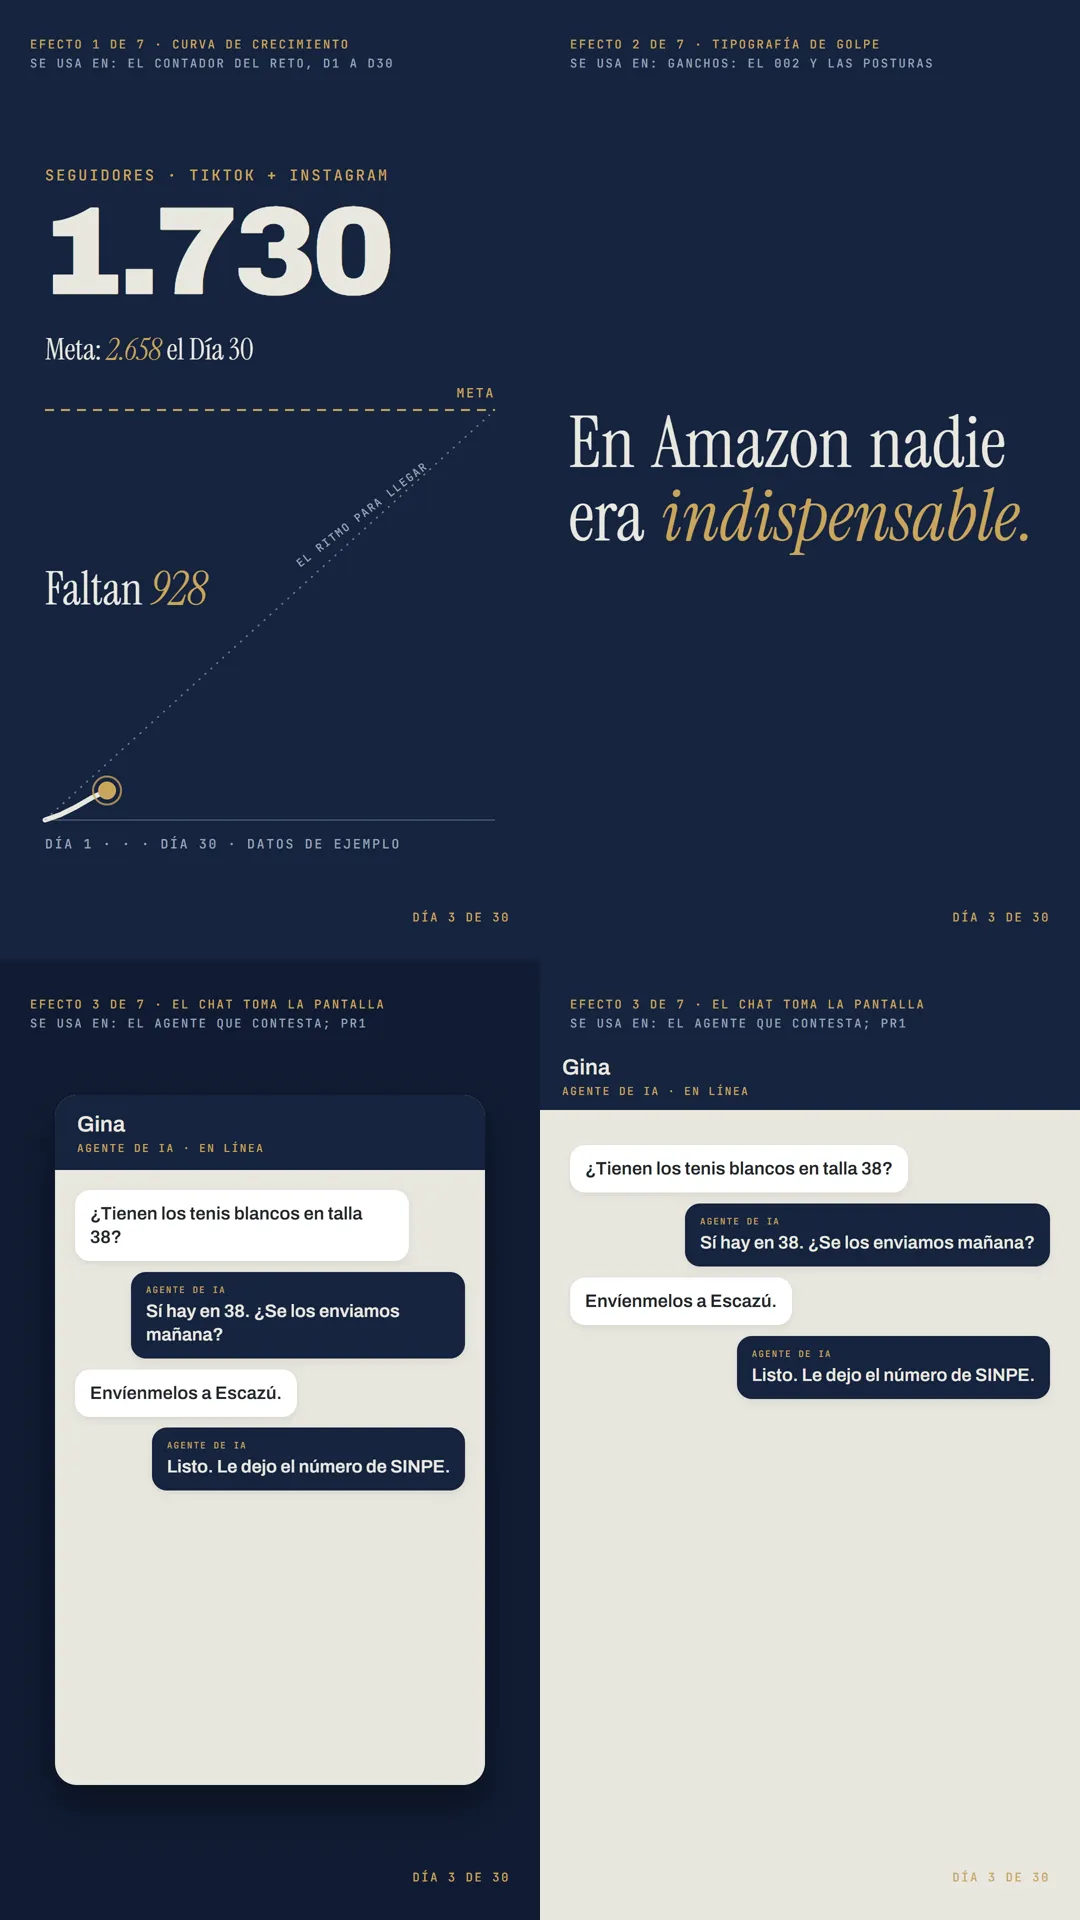
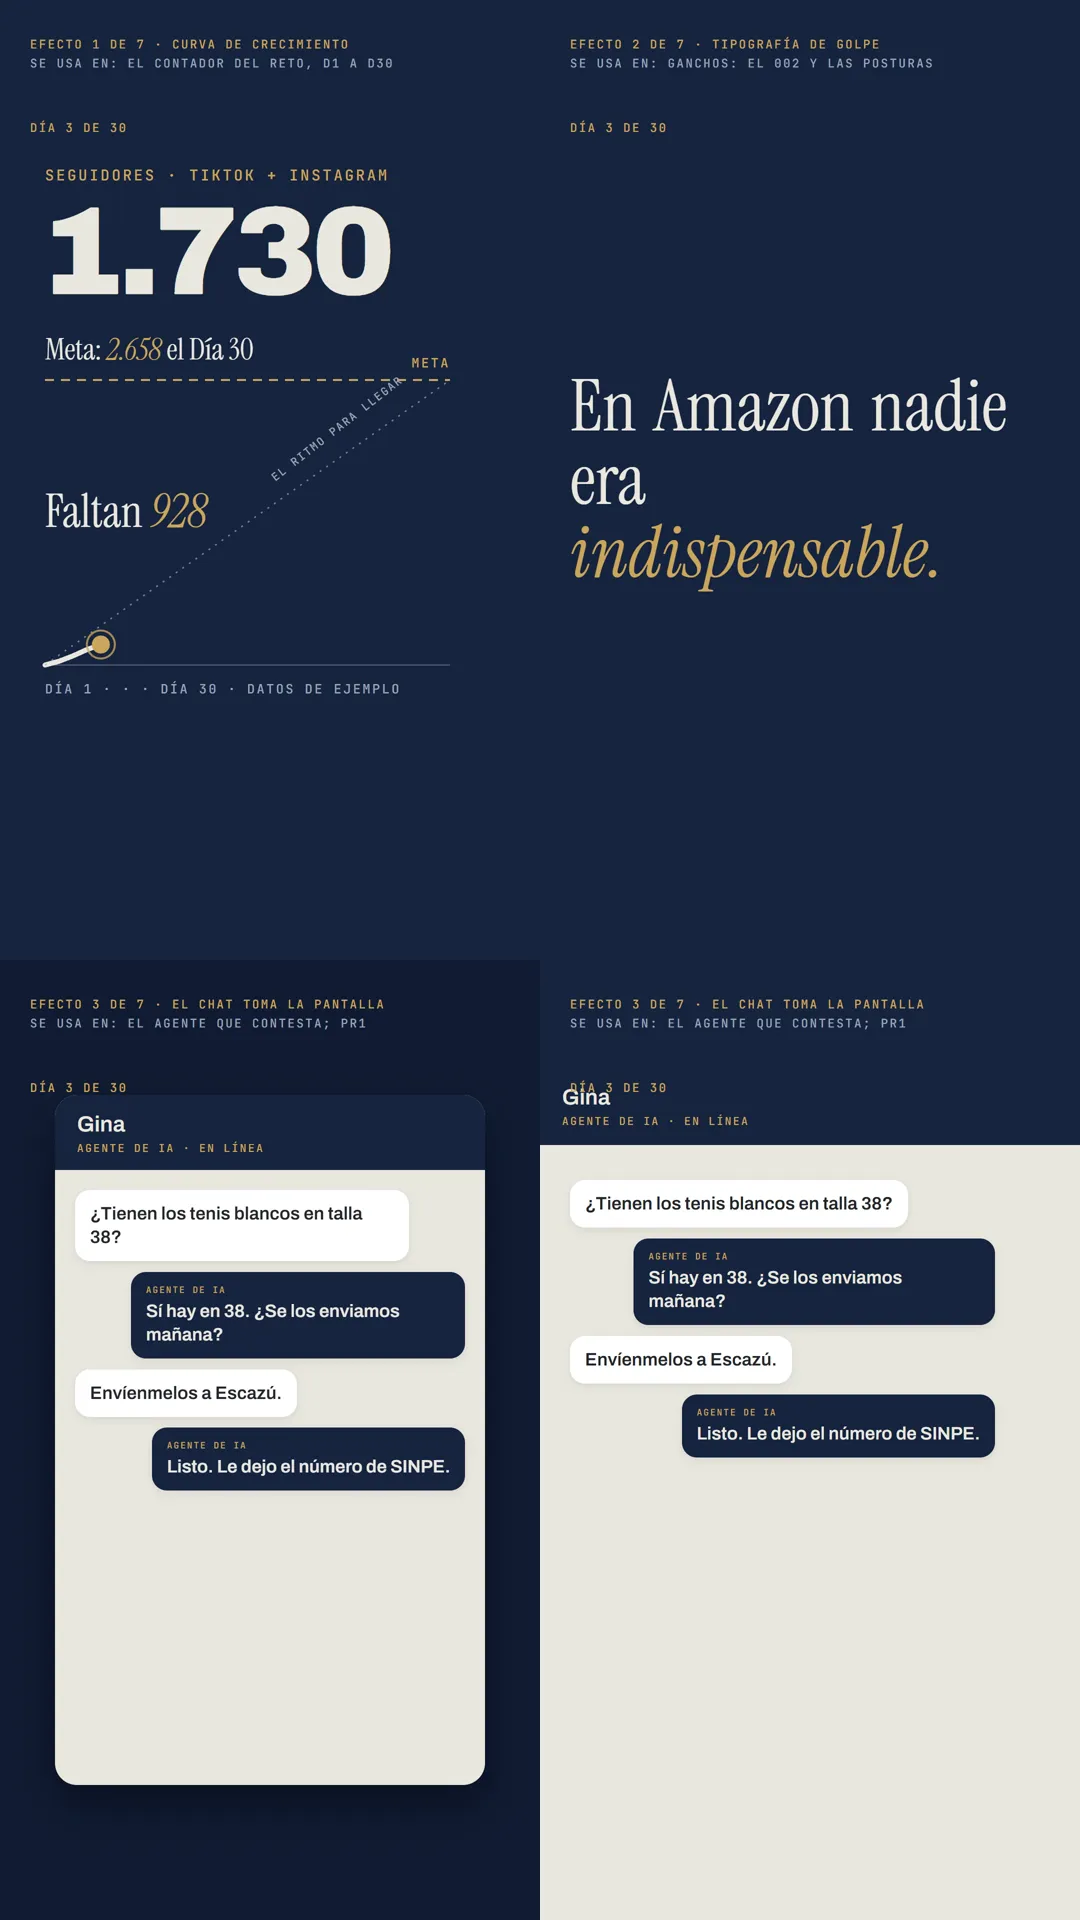
marca: revisión del proceso antes de producir, aprendizajes de Mercadeo y zonas seguras de TikTok
- REVISION-PROCESO.md: la regla de las 4 preguntas antes de generar (alineada, intención, técnica, sentido), lo que
  falla en nuestro plan (el gemelo choca con el CANON, una idea repetida 6 veces en la semana 1, zonas tapadas, «7 IAs»
  sin contar, la vara de las insignias, el Día 1 sin lote aprobado) y lo aprendido en las sesiones de Mercadeo.
- efectos.js y lote.py: zonas que tapa TikTok (SEGURA) y el sello «Día N de 30» arriba a la izquierda; bocetos y
  carrete de efectos vueltos a armar.

diff --git a/marca/efectos/efectos.js b/marca/efectos/efectos.js
@@ -8,6 +8,10 @@ export const C = {
   grafito: '#23262A', rojo: '#B22B3F', gris: '#9AA3B5', blanco: '#FFFFFF',
 };
 export const FW = 1080, FH = 1920;
+// Zonas que tapa la interfaz de TikTok y Reels en 1080×1920, en píxeles (la medida en píxeles es la fuente; ver la fila
+// 202 del índice de TORRE). Son aproximadas y conservadoras: arriba las pestañas, abajo el texto y la música, a la
+// derecha la columna de botones. Nada importante va ahí.
+export const SEGURA = { arriba: 220, abajo: 500, derecha: 160, izquierda: 60 };
 
 export const clamp = (x, a = 0, b = 1) => Math.min(b, Math.max(a, x));
 export const tramo = (t, a, b) => clamp((t - a) / (b - a));
@@ -77,14 +81,14 @@ export function curva(padre, o) {
   const sub = el('div', { position: 'absolute', left: '90px', top: '660px', font: '400 60px "Instrument Serif"' }, raiz,
     conOro(`Meta: ${miles(meta)} el Día 30`, miles(meta)));
   // la gráfica
-  const X0 = 90, Y0 = 820, W = 900, H = 820;
+  const X0 = 90, Y0 = 760, W = FW - 90 - SEGURA.derecha - 20, H = FH - SEGURA.abajo - 90 - 760;   // el eje y su rótulo, sobre la zona de abajo
   const g = svg('svg', { width: FW, height: FH, style: 'position:absolute;left:0;top:0' }, raiz);
   const y = val => Y0 + H - (val - base) / (meta - base) * H;
   const x = i => X0 + i / 29 * W;                           // 30 días a lo ancho
   svg('line', { x1: X0, y1: Y0 + H, x2: X0 + W, y2: Y0 + H, stroke: C.gris, 'stroke-width': 2, opacity: .5 }, g);
   const lineaMeta = svg('line', { x1: X0, y1: y(meta), x2: X0 + W, y2: y(meta), stroke: C.oro, 'stroke-width': 4,
     'stroke-dasharray': '18 14' }, g);
-  const rotMeta = el('div', { position: 'absolute', right: '90px', top: `${y(meta) - 52}px`, fontSize: '26px', color: C.oro }, raiz, 'Meta');
+  const rotMeta = el('div', { position: 'absolute', right: `${SEGURA.derecha + 20}px`, top: `${y(meta) - 52}px`, fontSize: '26px', color: C.oro }, raiz, 'Meta');
   rotMeta.className = 'mono';
   const d = v.map((val, i) => `${i ? 'L' : 'M'}${x(i).toFixed(1)},${y(val).toFixed(1)}`).join(' ');
   const camino = svg('path', { d, fill: 'none', stroke: C.vitela, 'stroke-width': 10, 'stroke-linecap': 'round', 'stroke-linejoin': 'round' }, g);
@@ -165,9 +169,9 @@ export function chat(padre, o) {
       panel.style.width = `${mezcla(PW, FW, k)}px`; panel.style.height = `${mezcla(PH, FH, k)}px`;
       panel.style.borderRadius = `${44 * (1 - k)}px`;
       panel.style.opacity = a; panel.style.transform = `scale(${mezcla(.94, 1, E.sale(a))})`;
-      cab.style.height = `${mezcla(150, 300, k)}px`; cab.style.paddingTop = `${mezcla(34, 190, k)}px`;
-      cuerpo.style.top = `${mezcla(150, 300, k)}px`;
-      cuerpo.style.padding = `${mezcla(40, 70, k)}px ${mezcla(40, 60, k)}px`;
+      cab.style.height = `${mezcla(150, SEGURA.arriba + 150, k)}px`; cab.style.paddingTop = `${mezcla(34, SEGURA.arriba + 30, k)}px`;
+      cuerpo.style.top = `${mezcla(150, SEGURA.arriba + 150, k)}px`;
+      cuerpo.style.padding = `${mezcla(40, 70, k)}px ${mezcla(40, SEGURA.derecha + 10, k)}px ${mezcla(40, SEGURA.abajo, k)}px ${mezcla(40, SEGURA.izquierda, k)}px`;
     },
   };
 }
@@ -200,11 +204,11 @@ export function telefono(padre, o) {
 export function lista(padre, o) {
   const claro = o.claro ?? true;
   const raiz = el('div', { position: 'absolute', inset: '0', background: claro ? C.vitela : C.tinta, color: claro ? C.tinta : C.vitela,
-    padding: '0 90px', boxSizing: 'border-box' }, padre);
-  const tit = el('div', { position: 'absolute', left: '90px', right: '90px', top: '360px', font: '400 108px/1.02 "Instrument Serif"' },
+    boxSizing: 'border-box' }, padre);
+  const tit = el('div', { position: 'absolute', left: '90px', right: `${SEGURA.derecha + 10}px`, top: '360px', font: '400 108px/1.02 "Instrument Serif"' },
     raiz, conOro(o.titulo, o.oro));
   const filas = o.items.map((texto, i) => {
-    const f = el('div', { position: 'absolute', left: '90px', right: '90px', top: `${820 + i * 190}px`, display: 'flex',
+    const f = el('div', { position: 'absolute', left: '90px', right: `${SEGURA.derecha + 10}px`, top: `${820 + i * 190}px`, display: 'flex',
       alignItems: 'center', gap: '40px', transformOrigin: '0 50%' }, raiz);
     const s = svg('svg', { width: 84, height: 84, viewBox: '0 0 84 84', style: 'flex:none' }, f);
     svg('rect', { x: 4, y: 4, width: 76, height: 76, rx: 14, fill: 'none', stroke: claro ? C.tinta : C.vitela, 'stroke-width': 6 }, s);
@@ -235,12 +239,12 @@ export function titulares(padre, o) {
   const mesa = el('div', { position: 'absolute', inset: '0', transformOrigin: '50% 50%' }, raiz);
   const r = azar(23), n = o.items.length;
   const tarjetas = o.items.map((it, i) => {
-    const c = el('div', { position: 'absolute', left: '110px', width: '860px', padding: '36px 44px', boxSizing: 'border-box',
+    const c = el('div', { position: 'absolute', left: `${SEGURA.izquierda + 20}px`, width: `${FW - SEGURA.izquierda - 20 - SEGURA.derecha - 20}px`, padding: '36px 44px', boxSizing: 'border-box',
       background: C.vitela, color: C.tinta, borderRadius: '10px', boxShadow: '0 24px 50px rgba(0,0,0,.4)' }, mesa);
     const m = el('div', { fontSize: '22px', color: C.rojo, marginBottom: '14px' }, c, `${it.fuente} · ${it.fecha}`);
     m.className = 'mono';
     el('div', { font: '400 56px/1.08 "Instrument Serif"' }, c, it.texto);
-    const fin = { y: 330 + i * (1180 / Math.max(1, n - 1)), rot: (r() - .5) * 8, x: (r() - .5) * 60 };
+    const fin = { y: SEGURA.arriba + 60 + i * ((FH - SEGURA.arriba - SEGURA.abajo - 260) / Math.max(1, n - 1)), rot: (r() - .5) * 6, x: (r() - .5) * 30 };
     const ang = r() * Math.PI * 2;
     const desde = { x: Math.cos(ang) * 1400, y: Math.sin(ang) * 1700, rot: (r() - .5) * 60 };
     return { c, fin, desde };
@@ -323,7 +327,7 @@ export function golpe(objetivo, o) {
 // o: { texto, oro, cada, golpeEn, tiempos: [segundo en que entra cada palabra] (opcional, para colgarla de la voz) }
 export function frase(padre, o) {
   const raiz = el('div', { position: 'absolute', inset: '0', background: C.tinta, color: C.vitela, display: 'flex', alignItems: 'center',
-    padding: '0 90px', boxSizing: 'border-box' }, padre);
+    padding: `0 ${SEGURA.derecha + 10}px 0 90px`, boxSizing: 'border-box' }, padre);
   const caja = el('div', { font: '400 128px/1.02 "Instrument Serif"', width: '100%' }, raiz);
   const palabras = o.texto.split(' ').map(w => {
     const s = el('span', { display: 'inline-block', marginRight: '.24em' }, caja, w);

diff --git a/marca/efectos/demo.js b/marca/efectos/demo.js
@@ -49,7 +49,9 @@ export async function armar(escenario) {
     const rot = el('div', { position: 'absolute', left: '60px', top: '70px', right: '60px', zIndex: 50, fontSize: '24px',
       color: C.oro, lineHeight: '1.6' }, r, `Efecto ${i + 1} de ${ESCENAS.length} · ${e.nombre}<br><span style="color:${C.gris}">Se usa en: ${e.uso}</span>`);
     rot.className = 'mono';
-    const sello = el('div', { position: 'absolute', right: '60px', bottom: '70px', zIndex: 50, fontSize: '24px', color: C.oro }, r, 'Día 3 de 30');
+    // el sello del reto va arriba a la izquierda, debajo de las pestañas y lejos de los botones (SEGURA)
+    const sello = el('div', { position: 'absolute', left: `${F.SEGURA.izquierda}px`, top: `${F.SEGURA.arriba + 20}px`, zIndex: 50,
+      fontSize: '24px', color: C.oro }, r, 'Día 3 de 30');
     sello.className = 'mono';
     const a = { r, efecto, t0, dur: e.dur };
     t0 += e.dur;

diff --git a/marca/scripts/lote.py b/marca/scripts/lote.py
@@ -40,7 +40,8 @@ body { width: 1080px; background: #101B33; color: #E8E6DE; font-family: "Archivo
 .lienzo { position: relative; width: 100%; height: 284px; border: 1.5px dashed rgba(232,230,222,0.45); border-radius: 6px;
   background: #16233F; padding: 22px 9px 9px; display: flex; flex-direction: column; justify-content: center; gap: 7px; overflow: hidden; }
 .lienzo.claro { background: #E8E6DE; color: #16233F; border-color: rgba(22,35,63,0.5); }
-.sello { position: absolute; top: 7px; right: 8px; font-size: 9px; color: #C9A45C; }
+.sello { position: absolute; top: 34px; left: 8px; font-size: 9px; color: #C9A45C; z-index: 2; }
+.zona { position: absolute; background: repeating-linear-gradient(45deg, rgba(178,43,63,.16) 0 4px, transparent 4px 9px); pointer-events: none; }
 .lienzo.claro .sello { color: #8a6a2a; }
 .dice { font-family: "Instrument Serif", serif; font-size: 20px; line-height: 1.06; }
 .dice.grande { font-size: 27px; }
@@ -83,7 +84,11 @@ def cuadro(c, dia, claro):
             clase = "dice grande" if b.get("grande") else "dice"
             partes.append(f'<div class="{clase}">{con_oro(b["dice"], b.get("oro"))}</div>')
     fondo = " claro" if c.get("claro", claro) else ""
-    return (f'<div class="cuadro"><div class="lienzo{fondo}"><div class="sello mono">Día {dia} de 30</div>{"".join(partes)}</div>'
+    # Zonas que tapa TikTok (las mismas de marca/efectos/efectos.js, SEGURA, a la escala del boceto): rayadas en rojo
+    zonas = ('<div class="zona" style="left:0;right:0;top:0;height:11.5%"></div>'
+             '<div class="zona" style="left:0;right:0;bottom:0;height:26%"></div>'
+             '<div class="zona" style="right:0;top:11.5%;bottom:26%;width:14.8%"></div>')
+    return (f'<div class="cuadro"><div class="lienzo{fondo}">{zonas}<div class="sello mono">Día {dia} de 30</div>{"".join(partes)}</div>'
             f'<div class="t mono">{html.escape(c.get("t", ""))}</div></div>')
 
 

diff --git a/marca/REVISION-PROCESO.md b/marca/REVISION-PROCESO.md
@@ -1,0 +1,62 @@
+# Revisión del proceso antes de producir (20-oct-2026)
+
+> Kenneth (20-oct): «Siempre vamos a chequear tres veces y, si es necesario, cuatro, antes de generar nada, y
+> preguntarnos y ser críticos: ¿esto se alinea con lo que debemos estar haciendo? ¿Tiene la intención correcta y el
+> soporte técnico correcto? […] Hagamos los ajustes necesarios y entonces empezamos a trabajar.»
+
+## La regla: 4 preguntas antes de generar cualquier pieza
+
+Se hacen sobre el guion gráfico, antes de mostrárselo a Kenneth, y otra vez antes de producir. La respuesta queda
+escrita en la ficha de la pieza; no alcanza con decir que se revisó.
+
+1. **¿Está alineada?** ¿Sirve a la meta de la fase (seguidores nuevos) y respeta `ESTRATEGIA.md` y `CANON.md`?
+2. **¿Tiene la intención correcta?** ¿Qué paso de la cadena mueve (ver, reaccionar, pasarlo, conocerte, seguir) y por
+   qué alguien haría eso con esta pieza?
+3. **¿Funciona técnicamente?** Formato 1080×1920, nada importante en las zonas que tapa la red, texto legible en el
+   celular, audio limpio, datos con fuente, etiqueta de IA si usa la voz o el gemelo.
+4. **¿Tiene sentido?** ¿Por qué sí o por qué no, mirando el conjunto? Si una respuesta es «no», se ajusta antes de
+   trabajar.
+
+## Lo que encontré en nuestro propio plan (primera pasada)
+
+| # | Problema | Pregunta que falla | Ajuste propuesto |
+|---|---|---|---|
+| 1 | **El gemelo choca con `CANON.md`.** La estrategia dice que «qué es real» sigue en el CANON, y el CANON dice: gemelo solo en *¿Cuál soy yo?*, nunca antes del video 15, porque «*¿Cuál soy yo?* solo funciona cuando el público ya conoce al Kenneth real». El plan pone el `G0` el Día 1 y el gemelo en las insignias de los días 3 y 5. La auditoría del 19-oct marcó el CANON como «alineado» sin ver esto | 1 y 4 | Kenneth decide: (a) el Día 1 y las insignias con su cara real grabada con el celular, y el `G0` después del video 15, o (b) cambiar el CANON y asumir el gemelo desde el día 1 |
+| 2 | **Una sola idea repetida.** 6 de las 24 piezas de la semana 1 dicen lo mismo («tu negocio no sobrevive a tus vacaciones» y «un sistema que te necesita es una dependencia»): `P1`, `002`, `002b`, `002c`, `002d` y `R2` | 2 y 4 | Dejar el `002` y una sola variante por semana; las otras dos, en las semanas 2 y 3. Cambiar `R2` por otra regla |
+| 3 | **Las zonas que tapa TikTok.** Ni los bocetos ni los efectos respetan la columna de botones de la derecha ni el texto de abajo. Ejemplo: el sello «Día N de 30» va abajo a la derecha, justo donde están los botones | 3 | Agregar las zonas seguras a `efectos.js` y a `lote.py` (como la fila 202 del índice de TORRE) y mover el sello arriba |
+| 4 | **«7 IAs» en la bio y en el reto.** El CANON pide contar los carriles vivos de TORRE antes de decir «siete» | 1 y 3 | Contarlos con `verificar.ps1` antes del Día 1 |
+| 5 | **La vara de las insignias no se puede alcanzar** (70 / 60 con el Virality Predictor: 5 versiones del 002 entre 50 y 56) | 3 y 4 | Ganarle a la mejor versión anterior; que decida la retención real (`ganchos/002.md`) |
+| 6 | **El Día 1 es mañana y nada está aprobado.** Publicar 3 piezas por día a mano desde mañana, sin lote aprobado, es correr | 4 | Correr el Día 1 al día en que esté aprobado el lote y hayan pasado las 4 preguntas |
+
+## Lo que aprendieron las sesiones de Mercadeo (20-oct)
+
+Fuentes: las sesiones «Sistema de generación de videos» (micro-kdrama) y «Videos de Marca Diay», del 20-oct, y la
+carpeta `Mercadeo` de la PC. No son de esta marca, pero el proceso es el mismo.
+
+**Lo que se suma a nuestro proceso:**
+
+| Aprendizaje | Cómo entra acá |
+|---|---|
+| **El editor:** un Artifact con línea de tiempo de varias pistas (video, voz, efectos, subtítulos) y vista previa 9:16. Kenneth recorta y mueve, toca «Copiar edición», lo pega en el chat y Claude vuelve a renderizar. Recién publicado, todavía sin uso real | Cuando funcione allá, se copia para la marca: Kenneth hace los cortes finos de cada pieza antes de publicar |
+| **4 preguntas antes de publicar** en Diay: ¿frena el scroll?, ¿conserva el espíritu?, ¿vende?, ¿está bien hecho? | «¿Frena el scroll?» entra en la pregunta 2. «¿Vende?» no aplica en la fase 1: acá es «¿hace seguir?» |
+| **Premisas fijas por pieza:** qué no cambia entre tomas (el mismo lugar, el mismo objeto, el mismo lado) | Cada ficha del guion gráfico lleva sus premisas fijas |
+| **Lógica física:** imágenes generadas con celulares fantasma, objetos duplicados o escalas imposibles. «Esta imagen está pésima, no tiene lógica física» | Antes de aprobar una imagen generada: revisar manos, objetos, escala y texto. Mejor planos medios o cerrados que abiertos |
+| **Lo caro, al final:** generar barato (480p, mudo, sin texto) y poner texto, audio y efectos en edición | Ya es nuestro camino: el volumen va con código y $0. Lo que pase por Higgsfield, igual |
+| **«Los créditos de Higgsfield son oro»:** Higgsfield solo para video, consultar el costo antes y pedir el sí | El Virality Predictor no gastó créditos (verificado en el historial del 20-oct). Nada más se genera ahí sin el sí de Kenneth |
+| **Subtítulos:** una sola línea, de unos 27 caracteres como máximo, que avanzan con la voz | Regla de la marca desde ya. Nuestros tiempos por palabra ayudan |
+| **Voz cortada:** se arregla con estabilidad de 0,30 a 0,40, velocidad 0,95 y un silencio al final | Se prueba en la próxima voz que generemos |
+| **Los pósters y carruseles estáticos hechos con IA son los que menos alcance tuvieron** en Diay | La semana 1 tiene 7 imágenes de 21 piezas. Se mantienen como prueba (la estrategia quiere medir qué tipo de pieza convierte), con un ojo puesto: si se confirma, pasan a ser loops de 5 s |
+| **Gancho:** curiosidad en el segundo 1 y movimiento real | Coincide con lo que vimos en la prueba del 002 |
+
+## Lo que ya ajusté (no depende de Kenneth)
+
+- **Zonas que tapa la red** en `efectos/efectos.js` (constante `SEGURA`) y en los bocetos de `scripts/lote.py`: el sello
+  «Día N de 30» pasa arriba a la izquierda, fuera de los botones.
+- **La regla de las 4 preguntas** queda en este archivo y en la memoria de Claude.
+
+## Lo que decide Kenneth (de a uno)
+
+1. El gemelo y el CANON (problema 1).
+2. Repartir la idea de las vacaciones en 3 semanas (problema 2).
+3. La vara de las insignias (problema 5).
+4. El nuevo Día 1, cuando el lote esté aprobado (problema 6).
